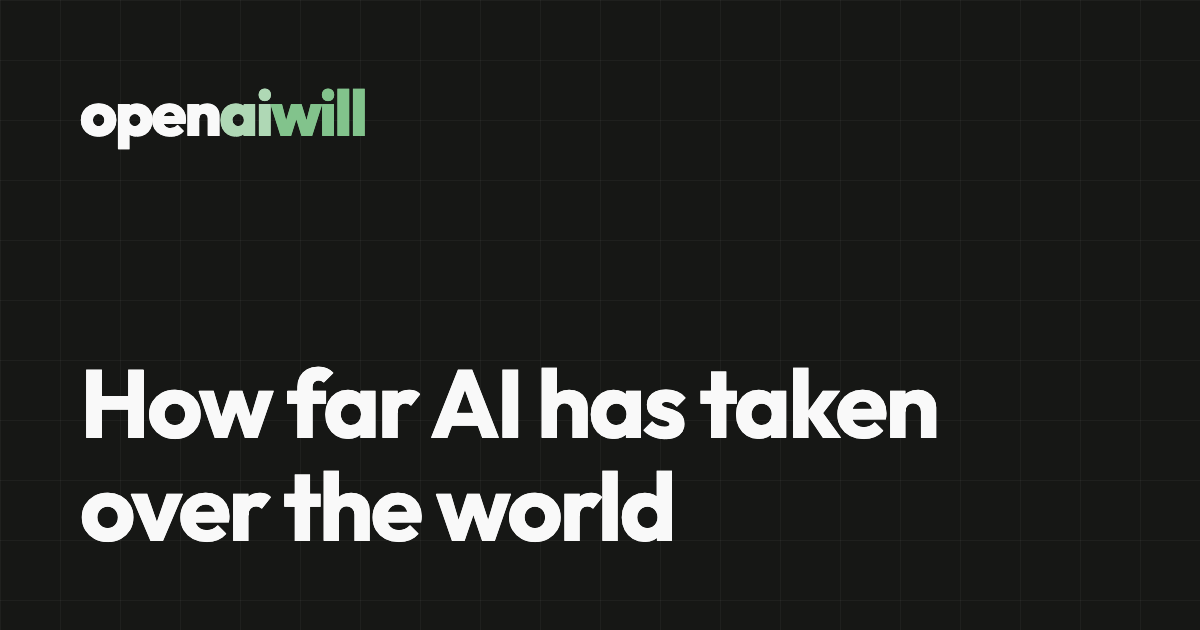
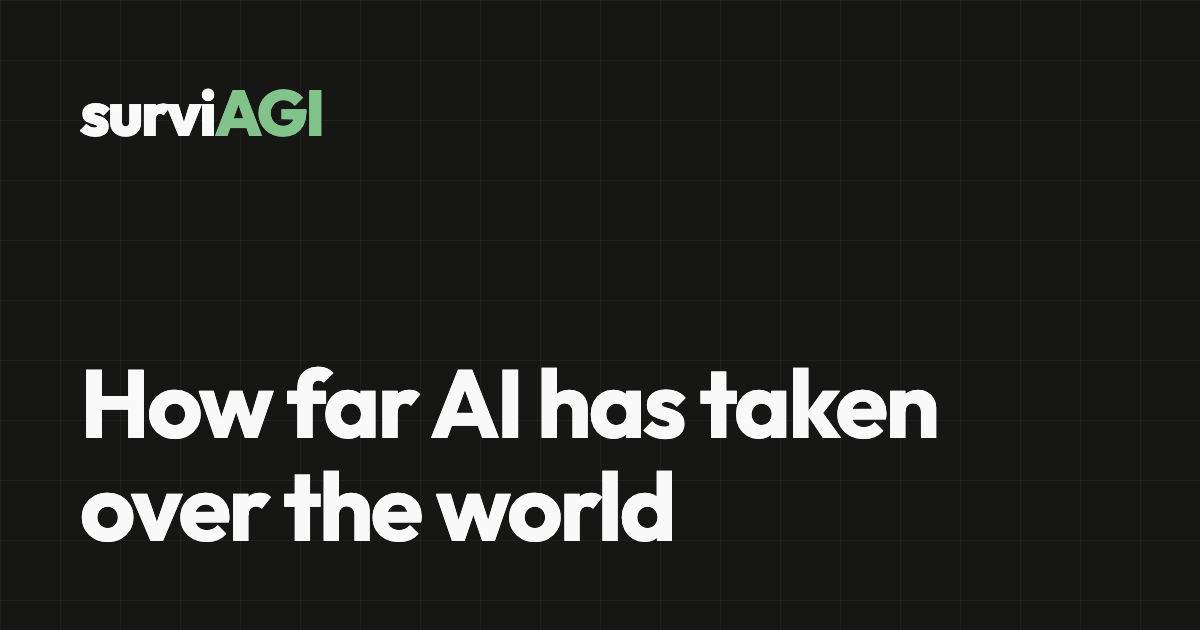
Rename the site to SurviAGI at surviagi.com; the earlier address redirects page by page

Changed region(s): [[0.0617, 0.1206, 0.3083, 0.2413]]

diff --git a/src/proxy.ts b/src/proxy.ts
@@ -1,5 +1,5 @@
 import { NextResponse, type NextRequest } from "next/server";
-import { apexLocation, isWwwHost } from "./lib/site-origin";
+import { apexLocation, isRedirectedHost } from "./lib/site-origin";
 import { LANGUAGE_COOKIE, LANGUAGE_COOKIE_MAX_AGE, languageRoute } from "./lib/i18n";
 
 /**
@@ -35,10 +35,10 @@ function passThrough() {
  * pages themselves live under `/[lang]`. The rules are in `languageRoute`.
  */
 export function proxy(request: NextRequest) {
-  // www.<site> is sent to the apex before anything else: cookies and the sign-in origin check belong to
-  // the apex. Behind the tunnel the app sees the public Host. The Location is the
+  // www.<site> and the site's earlier address are sent to the apex before anything else: cookies and the
+  // sign-in origin check belong to the apex. Behind the tunnel the app sees the public Host. The Location is the
   // fixed apex origin plus this request's own path and query, never a value taken from a header.
-  if (isWwwHost(request.headers.get("host"))) {
+  if (isRedirectedHost(request.headers.get("host"))) {
     return NextResponse.redirect(apexLocation(request.nextUrl.pathname, request.nextUrl.search), 308);
   }
   // `/api/*` reaches this function only for the redirect above; it has no language.
@@ -88,7 +88,7 @@ export function proxy(request: NextRequest) {
  * would be wrong: occupation addresses such as /occupations/11-1011.00 contain
  * a dot. The 32-hex `.txt` is the IndexNow key file in `public/`. Route handlers
  * under `/api/` have no language: rewritten to `/en/api/...` they would be a 404, so they are
- * matched only to get the www redirect and are then passed through untouched.
+ * matched only to get the host redirect and are then passed through untouched.
  */
 export const config = {
   matcher: [

diff --git a/src/app/[lang]/layout.tsx b/src/app/[lang]/layout.tsx
@@ -14,18 +14,18 @@ import { SITE_NAME, SITE_URL, SOCIAL_LINKS, siteCopy } from "@/lib/seo";
 
 const copy = bilingual({
   en: {
-    brandLabel: "openaiwill home",
-    footerBrand: "openaiwill · Before you build.",
+    brandLabel: "SurviAGI home",
+    footerBrand: "SurviAGI · The AGI Survival Guide",
     footerNote: "Evidence first. Opinions that can change.",
-    socialLinks: "openaiwill elsewhere",
+    socialLinks: "SurviAGI elsewhere",
     privacy: "Privacy",
     terms: "Terms",
   },
   "zh-CN": {
-    brandLabel: "openaiwill 首页",
-    footerBrand: "openaiwill · 在动手之前。",
+    brandLabel: "SurviAGI 首页",
+    footerBrand: "SurviAGI · 新人类 AI 生存指南",
     footerNote: "以证据为先，判断随事实更新。",
-    socialLinks: "openaiwill 的其他地址",
+    socialLinks: "SurviAGI 的其他地址",
     privacy: "隐私",
     terms: "条款",
   },
@@ -86,7 +86,7 @@ export default async function RootLayout({ children }: Readonly<{ children: Reac
     <html lang={language} className={`${interTight.variable} ${outfit.variable} ${jetBrainsMono.variable}`}>
       <body>
         <header className="header wrap">
-          <Link href={href(language, "/")} className="brand" aria-label={c.brandLabel}>open<span className="brand-ai">ai</span><span className="brand-will">will</span></Link>
+          <Link href={href(language, "/")} className="brand" aria-label={c.brandLabel}>survi<span className="brand-will">AGI</span></Link>
           <div className="header-end">
             <nav aria-label={nav.navLabel}>{SITE_NAV.map((item) => <Link key={item.href} href={href(language, item.href)}>{nav[item.key]}</Link>)}</nav>
             <nav className="header-social" aria-label={c.socialLinks}>

diff --git a/src/lib/site-origin.ts b/src/lib/site-origin.ts
@@ -1,20 +1,25 @@
 /** The public address. Not a secret and not per-environment: a candidate build names the same canonical pages. */
-export const SITE_URL = "https://openaiwill.com";
-
-const WWW_HOST = `www.${new URL(SITE_URL).host}`;
+export const SITE_URL = "https://surviagi.com";
 
 /**
- * The one host that is redirected to `SITE_URL`: `www.` plus the site's own host, with or without a port or a
- * trailing dot; no other suffix or prefix matches. `host` is a `Host` header value.
+ * The hosts that are sent to `SITE_URL`: `www.` plus the site's own host, and the address the site had
+ * before it was renamed (2026-10-08), with and without `www.`. A reader or a search engine holding an old
+ * address lands on the same page at the new one.
  */
-export function isWwwHost(host: string | null | undefined): boolean {
+const REDIRECTED_HOSTS = new Set([`www.${new URL(SITE_URL).host}`, "openaiwill.com", "www.openaiwill.com"]);
+
+/**
+ * Whether `host` (a `Host` header value) is one of the redirected hosts, with or without a port or a
+ * trailing dot; no other suffix or prefix matches.
+ */
+export function isRedirectedHost(host: string | null | undefined): boolean {
   if (!host) return false;
   // A trailing dot and a port name the same host.
   const name = host.split(",")[0].trim().toLowerCase().replace(/:\d+$/, "").replace(/\.$/, "");
-  return name === WWW_HOST;
+  return REDIRECTED_HOSTS.has(name);
 }
 
-/** `https://openaiwill.com` + the request's path and query; never built from the Host header. */
+/** `SITE_URL` + the request's path and query; never built from the Host header. */
 export function apexLocation(pathname: string, search: string): string {
   return `${SITE_URL}${pathname}${search}`;
 }

diff --git a/src/app/[lang]/whitepaper/page.tsx b/src/app/[lang]/whitepaper/page.tsx
@@ -33,7 +33,7 @@ const copy = bilingual({
   en: {
     metaTitle: "Whitepaper",
     metaDescription:
-      "openaiwill is an initiative to make progress toward AI independently completing major work more transparent and credible.",
+      "SurviAGI is an initiative to make progress toward AI independently completing major work more transparent and credible.",
     missing: "The whitepaper file is not present in this build.",
     eyebrow: "PUBLIC WHITEPAPER",
     contents: "Contents",
@@ -41,7 +41,7 @@ const copy = bilingual({
   },
   "zh-CN": {
     metaTitle: "白皮书",
-    metaDescription: "openaiwill 是一项倡议，让 AI 独立完成主要工作的进展变得更透明、更可信。",
+    metaDescription: "SurviAGI 是一项倡议，让 AI 独立完成主要工作的进展变得更透明、更可信。",
     missing: "本次构建中没有白皮书文件。",
     eyebrow: "公开白皮书",
     contents: "目录",
@@ -161,7 +161,7 @@ export default async function Whitepaper() {
       <div className={s.layout}>
         <WhitepaperToc label={c.contents} items={contents} />
         {/* The document carries its own headings and version line; the page
-            frames it rather than restating it. openaiwill is an initiative, not
+            frames it rather than restating it. SurviAGI is an initiative, not
             a platform, and this page must not describe it as one. */}
         <article className={s.doc}>
           {blocks.map((block, i) => renderBlock(block, i, sectionIds.get(i)))}

diff --git a/src/lib/seo.ts b/src/lib/seo.ts
@@ -4,14 +4,16 @@ import { SITE_URL } from "./site-origin";
 import { manifest as dataManifest } from "./snapshot";
 
 export { SITE_URL };
-export const SITE_NAME = "openaiwill";
+export const SITE_NAME = "SurviAGI";
+/** What the name stands for, and the names the same project is also known by (the last is its earlier name). */
+export const SITE_ALTERNATE_NAMES = ["The AGI Survival Guide", "新人类 AI 生存指南", "openaiwill"] as const;
 /** The project's own account on X (user-confirmed 2026-10-03). */
 export const X_HANDLE = "@openaiwill";
 export const X_URL = "https://x.com/openaiwill";
 /** The project's community invite on Discord (user-confirmed 2026-10-03). */
 export const DISCORD_URL = "https://discord.gg/ArVHw2K9X";
 /** The public source repository (user-confirmed 2026-10-03). */
-export const GITHUB_URL = "https://github.com/feyn-machines/openaiwill";
+export const GITHUB_URL = "https://github.com/feyn-machines/surviagi";
 
 /** The project's own places elsewhere, in the order the footer shows them. */
 export const SOCIAL_LINKS = [
@@ -105,6 +107,7 @@ const CONTEXT = "https://schema.org";
 const organization = {
   "@type": "Organization",
   name: SITE_NAME,
+  alternateName: SITE_ALTERNATE_NAMES,
   url: SITE_URL,
   logo: `${SITE_URL}/icon.svg`,
   sameAs: [X_URL, DISCORD_URL, GITHUB_URL],

diff --git a/src/app/llms.txt/route.ts b/src/app/llms.txt/route.ts
@@ -17,15 +17,15 @@ export function GET() {
   const lines = [
     `# ${SITE_NAME}`,
     "",
-    "> An initiative to make progress toward AI independently completing major production and service work more transparent and credible. Each reading links to the official update it rests on.",
+    "> SurviAGI (The AGI Survival Guide; 新人类 AI 生存指南; formerly openaiwill) is an independent initiative, not affiliated with any AI company, to make progress toward AI independently completing major production and service work more transparent and credible. Each reading links to the official update it rests on.",
     "",
     "## Pages",
     "",
     ...SITE_NAV.map((item) => `- [${nav[item.key]}](${absoluteUrl("en", item.href)})`),
     `- [Sitemap](${SITE_URL}/sitemap.xml)`,
     `- [简体中文](${absoluteUrl("zh-CN", "/")})`,
-    `- [openaiwill on X](${X_URL})`,
-    `- [openaiwill on Discord](${DISCORD_URL})`,
+    `- [${SITE_NAME} on X](${X_URL})`,
+    `- [${SITE_NAME} on Discord](${DISCORD_URL})`,
     `- [Source on GitHub](${GITHUB_URL})`,
     "",
     ...(publishedArticles.length

diff --git a/src/lib/legal.ts b/src/lib/legal.ts
@@ -63,7 +63,7 @@ export const legalCopy: Record<Language, { privacy: Doc; terms: Doc }> = {
         {
           heading: "What this is",
           body: [
-            "openaiwill is an initiative to make progress toward AI independently completing major work more transparent. The site is provided as is, without warranty.",
+            "SurviAGI is an initiative to make progress toward AI independently completing major work more transparent. The site is provided as is, without warranty.",
           ],
         },
         {
@@ -137,7 +137,7 @@ export const legalCopy: Record<Language, { privacy: Doc; terms: Doc }> = {
       sections: [
         {
           heading: "这是什么",
-          body: ["openaiwill 是一项倡议，让 AI 独立完成主要工作的进展变得更透明。本站按现状提供，不作任何担保。"],
+          body: ["SurviAGI 是一项倡议，让 AI 独立完成主要工作的进展变得更透明。本站按现状提供，不作任何担保。"],
         },
         {
           heading: "关于数据",

diff --git a/src/components/home/sections/text-sections.tsx b/src/components/home/sections/text-sections.tsx
@@ -33,7 +33,7 @@ const copy = bilingual({
     now: "{n} kinds of work",
     none: "None yet",
     endTitle: "Every AI update could change your answer.",
-    endBody: "openaiwill is an initiative to make AI’s progress toward taking over the world more transparent and credible.",
+    endBody: "SurviAGI is an initiative to make AI’s progress toward taking over the world more transparent and credible.",
     endLink: "Read the whitepaper",
   },
   "zh-CN": {
@@ -56,7 +56,7 @@ const copy = bilingual({
     now: "{n} 项工作",
     none: "暂无",
     endTitle: "每一次 AI 更新，都可能会挑战你的答案。",
-    endBody: "openaiwill 是一项让 AI 接管世界的进度更透明、更可信的倡议。",
+    endBody: "SurviAGI 是一项让 AI 接管世界的进度更透明、更可信的倡议。",
     endLink: "阅读白皮书",
   },
 });

diff --git a/src/app/[lang]/page.tsx b/src/app/[lang]/page.tsx
@@ -78,7 +78,7 @@ export default async function Home() {
         <Reveal tone="base" ghost="Companies" chapter={chapters[4]}><CompaniesSection data={data} language={language} index={index(5)} /></Reveal>
         <Reveal tone="ink" ghost="Attention" chapter={chapters[5]}><AttentionSection data={data} language={language} index={index(6)} /></Reveal>
         <Reveal tone="base" ghost="Record" chapter={chapters[6]}><GraphSection data={data} language={language} index={index(7)} /></Reveal>
-        <Reveal tone="green" ghost="openaiwill"><ClosingSection language={language} /></Reveal>
+        <Reveal tone="green" ghost="SurviAGI"><ClosingSection language={language} /></Reveal>
       </div>
     </div>
   );

diff --git a/src/app/[lang]/privacy/page.tsx b/src/app/[lang]/privacy/page.tsx
@@ -9,8 +9,8 @@ import { LegalDoc } from "../legal-doc";
 export const dynamic = "force-dynamic";
 
 const meta = bilingual({
-  en: { description: "What openaiwill stores about people who sign in, submit an account or subscribe, and how to have it deleted." },
-  "zh-CN": { description: "openaiwill 对登录、提交帐号或订阅的人存储哪些信息，以及如何删除。" },
+  en: { description: "What SurviAGI stores about people who sign in, submit an account or subscribe, and how to have it deleted." },
+  "zh-CN": { description: "SurviAGI 对登录、提交帐号或订阅的人存储哪些信息，以及如何删除。" },
 });
 
 export async function generateMetadata(): Promise<Metadata> {

diff --git a/src/app/[lang]/terms/page.tsx b/src/app/[lang]/terms/page.tsx
@@ -9,8 +9,8 @@ import { LegalDoc } from "../legal-doc";
 export const dynamic = "force-dynamic";
 
 const meta = bilingual({
-  en: { description: "The terms for using openaiwill: the data is machine-proposed and unreviewed, and what to submit." },
-  "zh-CN": { description: "使用 openaiwill 的条款：数据由机器提出、未经审核，以及可以提交什么。" },
+  en: { description: "The terms for using SurviAGI: the data is machine-proposed and unreviewed, and what to submit." },
+  "zh-CN": { description: "使用 SurviAGI 的条款：数据由机器提出、未经审核，以及可以提交什么。" },
 });
 
 export async function generateMetadata(): Promise<Metadata> {

diff --git a/design/system-v1/og/card.html b/design/system-v1/og/card.html
@@ -2,7 +2,7 @@
 <html lang="en">
 <head>
 <meta charset="utf-8">
-<title>openaiwill share card</title>
+<title>SurviAGI share card</title>
 <link rel="stylesheet" href="../../../src/app/design-tokens.css">
 <style>
 @font-face{font-family:"Outfit";src:url("../fonts/Outfit-Variable.ttf");font-weight:100 900}
@@ -18,7 +18,7 @@ html[lang="zh-CN"] h1{font-size:104px;letter-spacing:0;line-height:1.2}
 </style>
 </head>
 <body>
-<div class="brand">open<span class="brand-ai">ai</span><span class="brand-will">will</span></div>
+<div class="brand">survi<span class="brand-will">AGI</span></div>
 <h1 id="headline"></h1>
 <script>
   // The headlines are the titles in src/lib/seo.ts (siteCopy).
